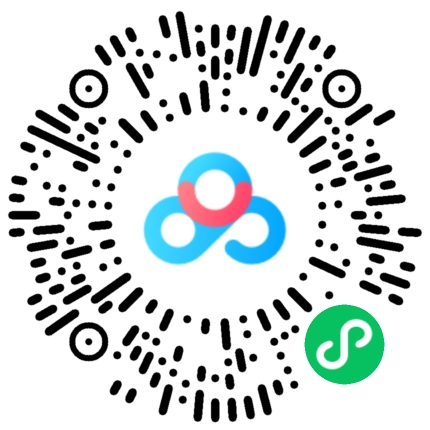
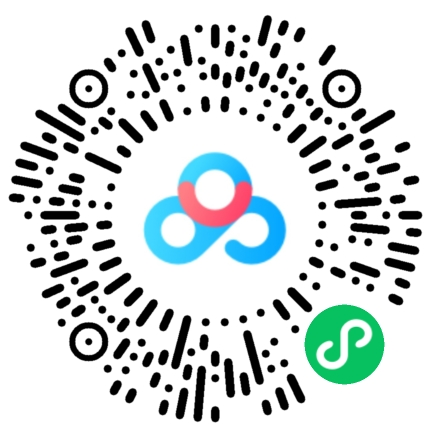
更新教师助手安装包下载链接和二维码

diff --git a/docs/teacher-assistant/index.md b/docs/teacher-assistant/index.md
@@ -22,9 +22,9 @@ outline: deep
 
 ## 下载客户端
 
-[下载教师工作管理助手（百度网盘）](https://pan.baidu.com/s/16CBJ4R_EG5A21-_gBo81xw){target="_blank" rel="noreferrer"}
+[下载教师工作管理助手（百度网盘）](https://pan.baidu.com/s/1tY9bTwoWLzDj0dgmc0KcVQ){target="_blank" rel="noreferrer"}
 
-**提取码：`mtef`**　安装包：`TeacherWorkAssistant_Setup_20260901.exe`
+**提取码：`qau4`**　安装包：`TeacherWorkAssistant_Setup_20260904.exe`
 
 ::: warning 安装前请确认
 请核对安装包文件名与来源。学校设备如由信息部门统一管理，请先遵守校内软件安装规范。
